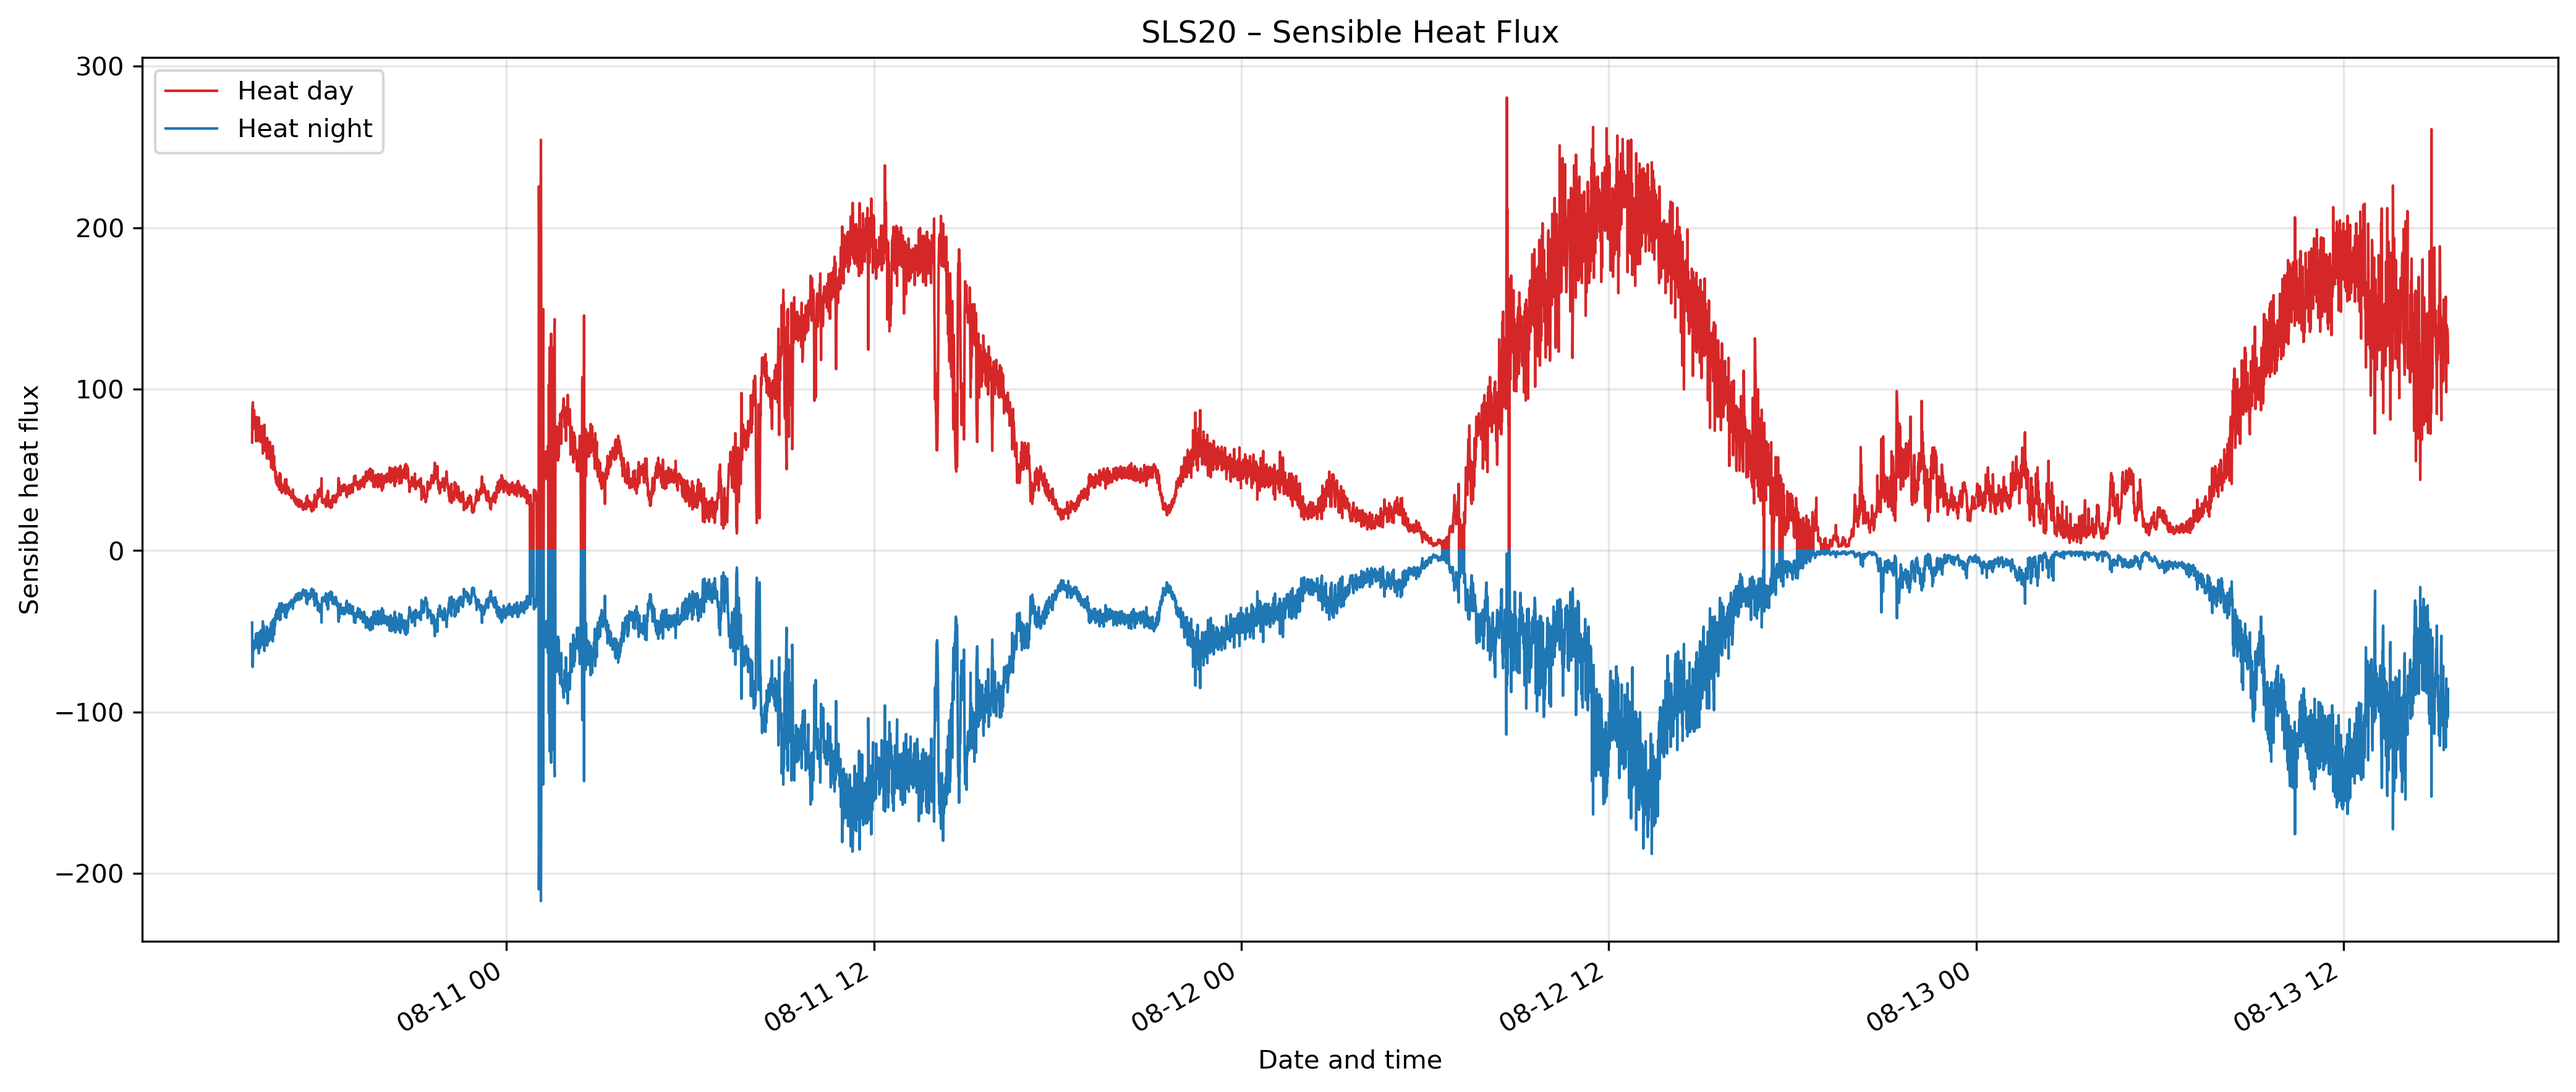
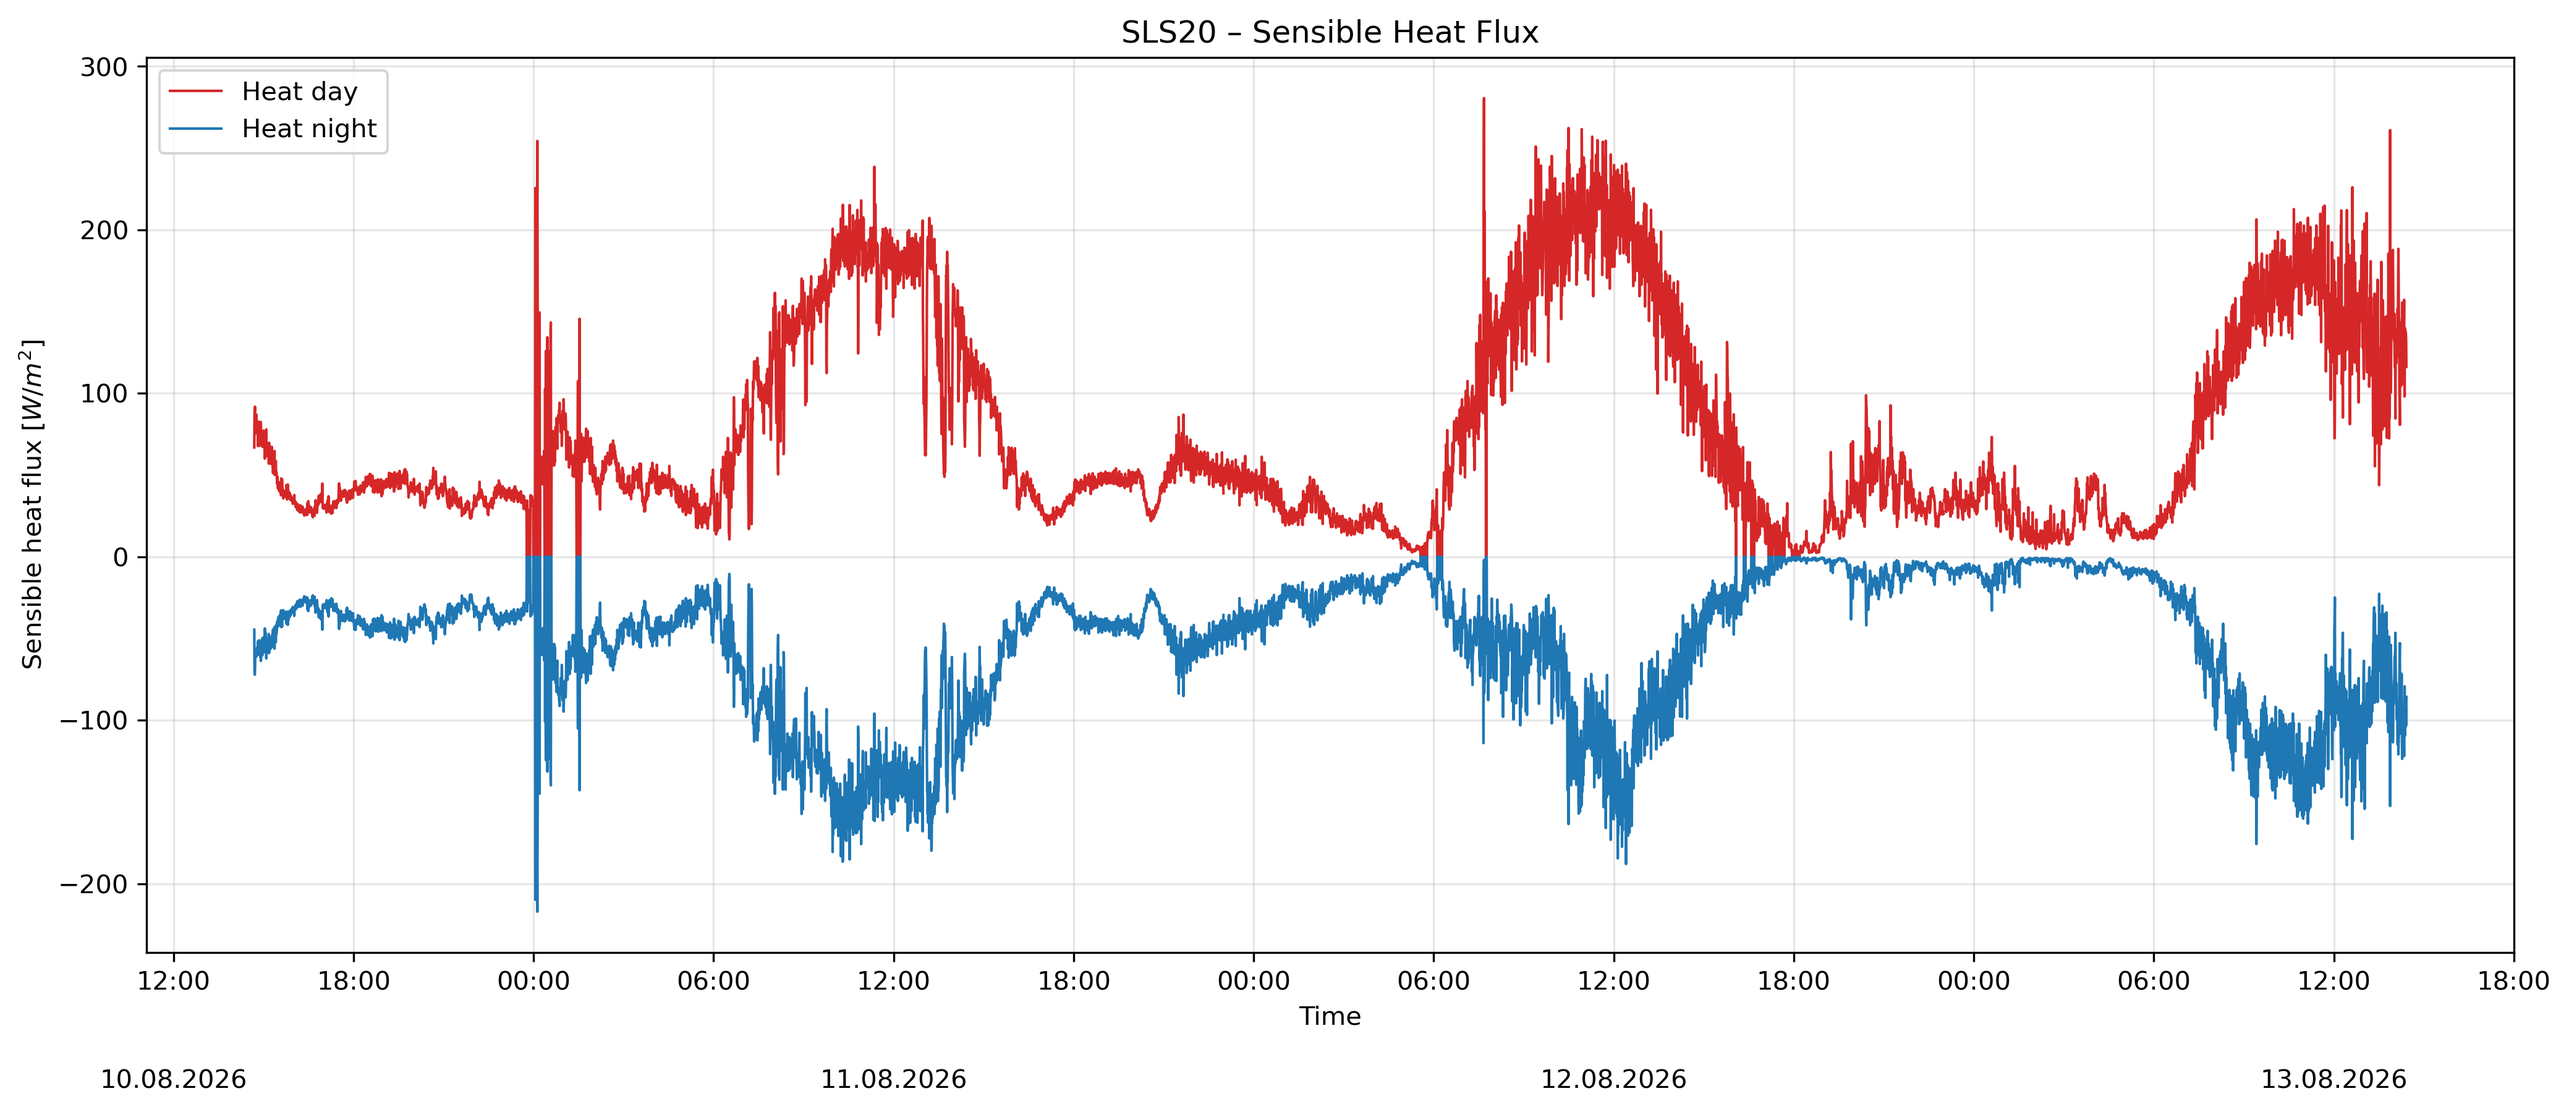
adding the date

diff --git a/scintillometer/data_processing/analysis_sls.py b/scintillometer/data_processing/analysis_sls.py
@@ -18,6 +18,53 @@ PLOT_FOLDER = Path(
 )
 
 
+def format_time_axis(ax):
+    """
+    Format the x-axis with time labels every 6 hours.
+    """
+
+    ax.xaxis.set_major_locator(
+        mdates.HourLocator(
+            byhour=[0, 6, 12, 18]
+        )
+    )
+
+    ax.xaxis.set_major_formatter(
+        mdates.DateFormatter("%H:%M")
+    )
+
+    ax.set_xlabel(
+        "Time"
+    )
+
+
+def add_day_labels(ax, dates):
+    """
+    Add one date label centered underneath each day.
+
+    The normal x-axis only contains the time.
+    The date is displayed separately below the axis.
+    """
+
+    for date in dates:
+
+        start = pd.Timestamp(date)
+
+        center = start + pd.Timedelta(
+            hours=12
+        )
+
+        ax.text(
+            center,
+            -0.13,
+            start.strftime("%d.%m.%Y"),
+            transform=ax.get_xaxis_transform(),
+            ha="center",
+            va="top",
+            fontsize=10,
+        )
+
+
 def plot_heat_flux(res: pd.DataFrame) -> None:
 
     PLOT_FOLDER.mkdir(
@@ -25,7 +72,10 @@ def plot_heat_flux(res: pd.DataFrame) -> None:
         exist_ok=True,
     )
 
-    # Check
+    # ========================================================================
+    # CHECK REQUIRED COLUMNS
+    # ========================================================================
+
     required_columns = {
         "timestamp",
         "Heat_day",
@@ -39,7 +89,10 @@ def plot_heat_flux(res: pd.DataFrame) -> None:
             f"Missing RES columns: {sorted(missing)}"
         )
 
-    # Prepare timestamps
+    # ========================================================================
+    # PREPARE DATA
+    # ========================================================================
+
     res = res.copy()
 
     res["timestamp"] = pd.to_datetime(
@@ -50,7 +103,10 @@ def plot_heat_flux(res: pd.DataFrame) -> None:
         "timestamp"
     )
 
+    # ========================================================================
     # ALL DAYS
+    # ========================================================================
+
     fig, ax = plt.subplots(
         figsize=(14, 6)
     )
@@ -75,12 +131,8 @@ def plot_heat_flux(res: pd.DataFrame) -> None:
         "SLS20 – Sensible Heat Flux"
     )
 
-    ax.set_xlabel(
-        "Date"
-    )
-
     ax.set_ylabel(
-        "Sensible heat flux"
+        "Sensible heat flux [$W/m^2$]"
     )
 
     ax.grid(
@@ -90,18 +142,29 @@ def plot_heat_flux(res: pd.DataFrame) -> None:
 
     ax.legend()
 
-    # X-axis: dd.mm.yyyy HH:MM
-    ax.xaxis.set_major_formatter(
-        mdates.DateFormatter("%d.%m.%Y %H:%M")
+    # ------------------------------------------------------------------------
+    # X-AXIS: ONLY TIME
+    # ------------------------------------------------------------------------
+
+    format_time_axis(ax)
+
+    # ------------------------------------------------------------------------
+    # DATE LABELS: ONE DATE PER DAY, CENTERED
+    # ------------------------------------------------------------------------
+
+    dates = sorted(
+        res["timestamp"].dt.date.unique()
     )
 
-    ax.xaxis.set_major_locator(
-        mdates.HourLocator(
-            byhour=[0, 6, 12, 18]
-        )
+    add_day_labels(
+        ax,
+        dates,
     )
 
-    fig.autofmt_xdate()
+    # Extra space below the axis for the dates
+    fig.subplots_adjust(
+        bottom=0.20
+    )
 
     fig.tight_layout()
 
@@ -122,10 +185,17 @@ def plot_heat_flux(res: pd.DataFrame) -> None:
         f"Saved: {output}"
     )
 
+    # ========================================================================
     # INDIVIDUAL DAYS
-    res["date"] = res["timestamp"].dt.date
+    # ========================================================================
 
-    for date, day_data in res.groupby("date"):
+    res["date"] = res[
+        "timestamp"
+    ].dt.date
+
+    for date, day_data in res.groupby(
+        "date"
+    ):
 
         fig, ax = plt.subplots(
             figsize=(14, 6)
@@ -147,7 +217,9 @@ def plot_heat_flux(res: pd.DataFrame) -> None:
             linewidth=1.2,
         )
 
-        date_string = pd.Timestamp(date).strftime(
+        date_string = pd.Timestamp(
+            date
+        ).strftime(
             "%d.%m.%Y"
         )
 
@@ -155,12 +227,8 @@ def plot_heat_flux(res: pd.DataFrame) -> None:
             f"{date_string} – SLS20 – Sensible Heat Flux"
         )
 
-        ax.set_xlabel(
-            "Time"
-        )
-
         ax.set_ylabel(
-            "Sensible heat flux"
+            "Sensible heat flux [$W/m^2$]"
         )
 
         ax.grid(
@@ -170,14 +238,11 @@ def plot_heat_flux(res: pd.DataFrame) -> None:
 
         ax.legend()
 
-        # X-axis: time only for individual days
-        ax.xaxis.set_major_formatter(
-            mdates.DateFormatter("%H:%M")
-        )
+        # --------------------------------------------------------------------
+        # X-AXIS: ONLY TIME
+        # --------------------------------------------------------------------
 
-        ax.xaxis.set_major_locator(
-            mdates.HourLocator(interval=2)
-        )
+        format_time_axis(ax)
 
         fig.autofmt_xdate()
 
@@ -203,7 +268,9 @@ def plot_heat_flux(res: pd.DataFrame) -> None:
 
 def main():
 
-    print("SLS20 SENSIBLE HEAT FLUX PLOTS")
+    print(
+        "SLS20 SENSIBLE HEAT FLUX PLOTS"
+    )
 
     print(
         f"Data folder:  {DATA_FOLDER}"
@@ -214,7 +281,9 @@ def main():
     )
 
     print()
-    print("Loading SLS20 data...")
+    print(
+        "Loading SLS20 data..."
+    )
 
     res, dgn = load_sls20_data(
         DATA_FOLDER
@@ -230,13 +299,22 @@ def main():
     )
 
     print()
-    print("RES columns:")
-    print(list(res.columns))
+    print(
+        "RES columns:"
+    )
 
-    plot_heat_flux(res)
+    print(
+        list(res.columns)
+    )
+
+    plot_heat_flux(
+        res
+    )
 
     print()
-    print("Done.")
+    print(
+        "Done."
+    )
 
 
 if __name__ == "__main__":
